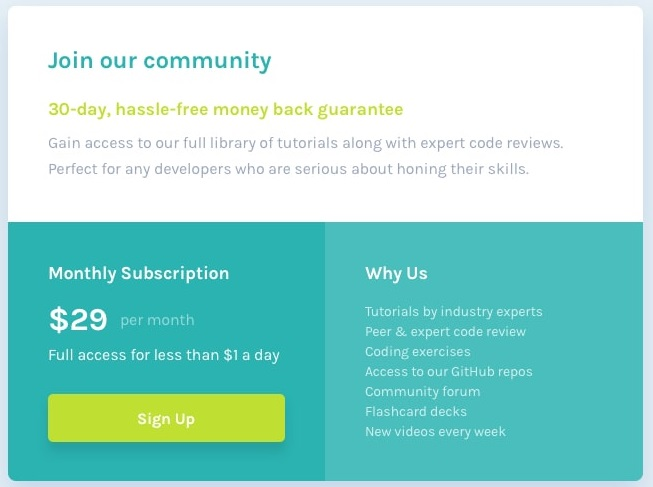
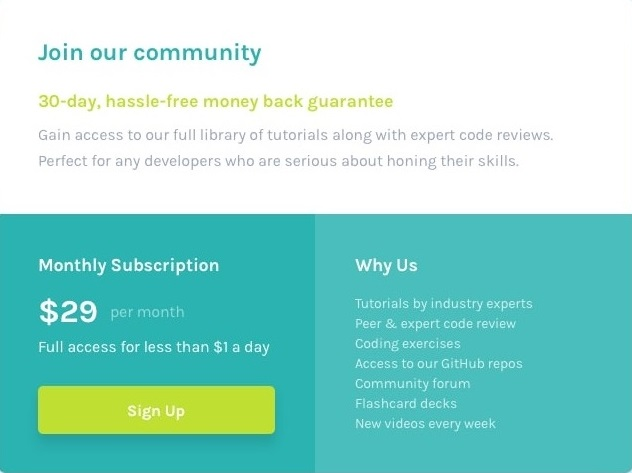
shadow and one pic correct

diff --git a/sass/style.scss b/sass/style.scss
@@ -25,7 +25,7 @@
     grid-template-rows: 210px 210px 80px;
     grid-template-areas: "image" "body" "footer";
     font-family: "poppins" , serif;
-    box-shadow: 0 0 13px 3px black;
+    box-shadow: 0 0 13px -1px black;
     border-radius: 18px;
     text-align: center;
     margin: 30px 40px;

diff --git a/css/style.css b/css/style.css
@@ -26,7 +26,7 @@
   grid-template-rows: 210px 210px 80px;
   grid-template-areas: "image" "body" "footer";
   font-family: "poppins", serif;
-  box-shadow: 0 0 13px 3px black;
+  box-shadow: 0 0 13px -1px black;
   border-radius: 18px;
   text-align: center;
   margin: 30px 40px;
